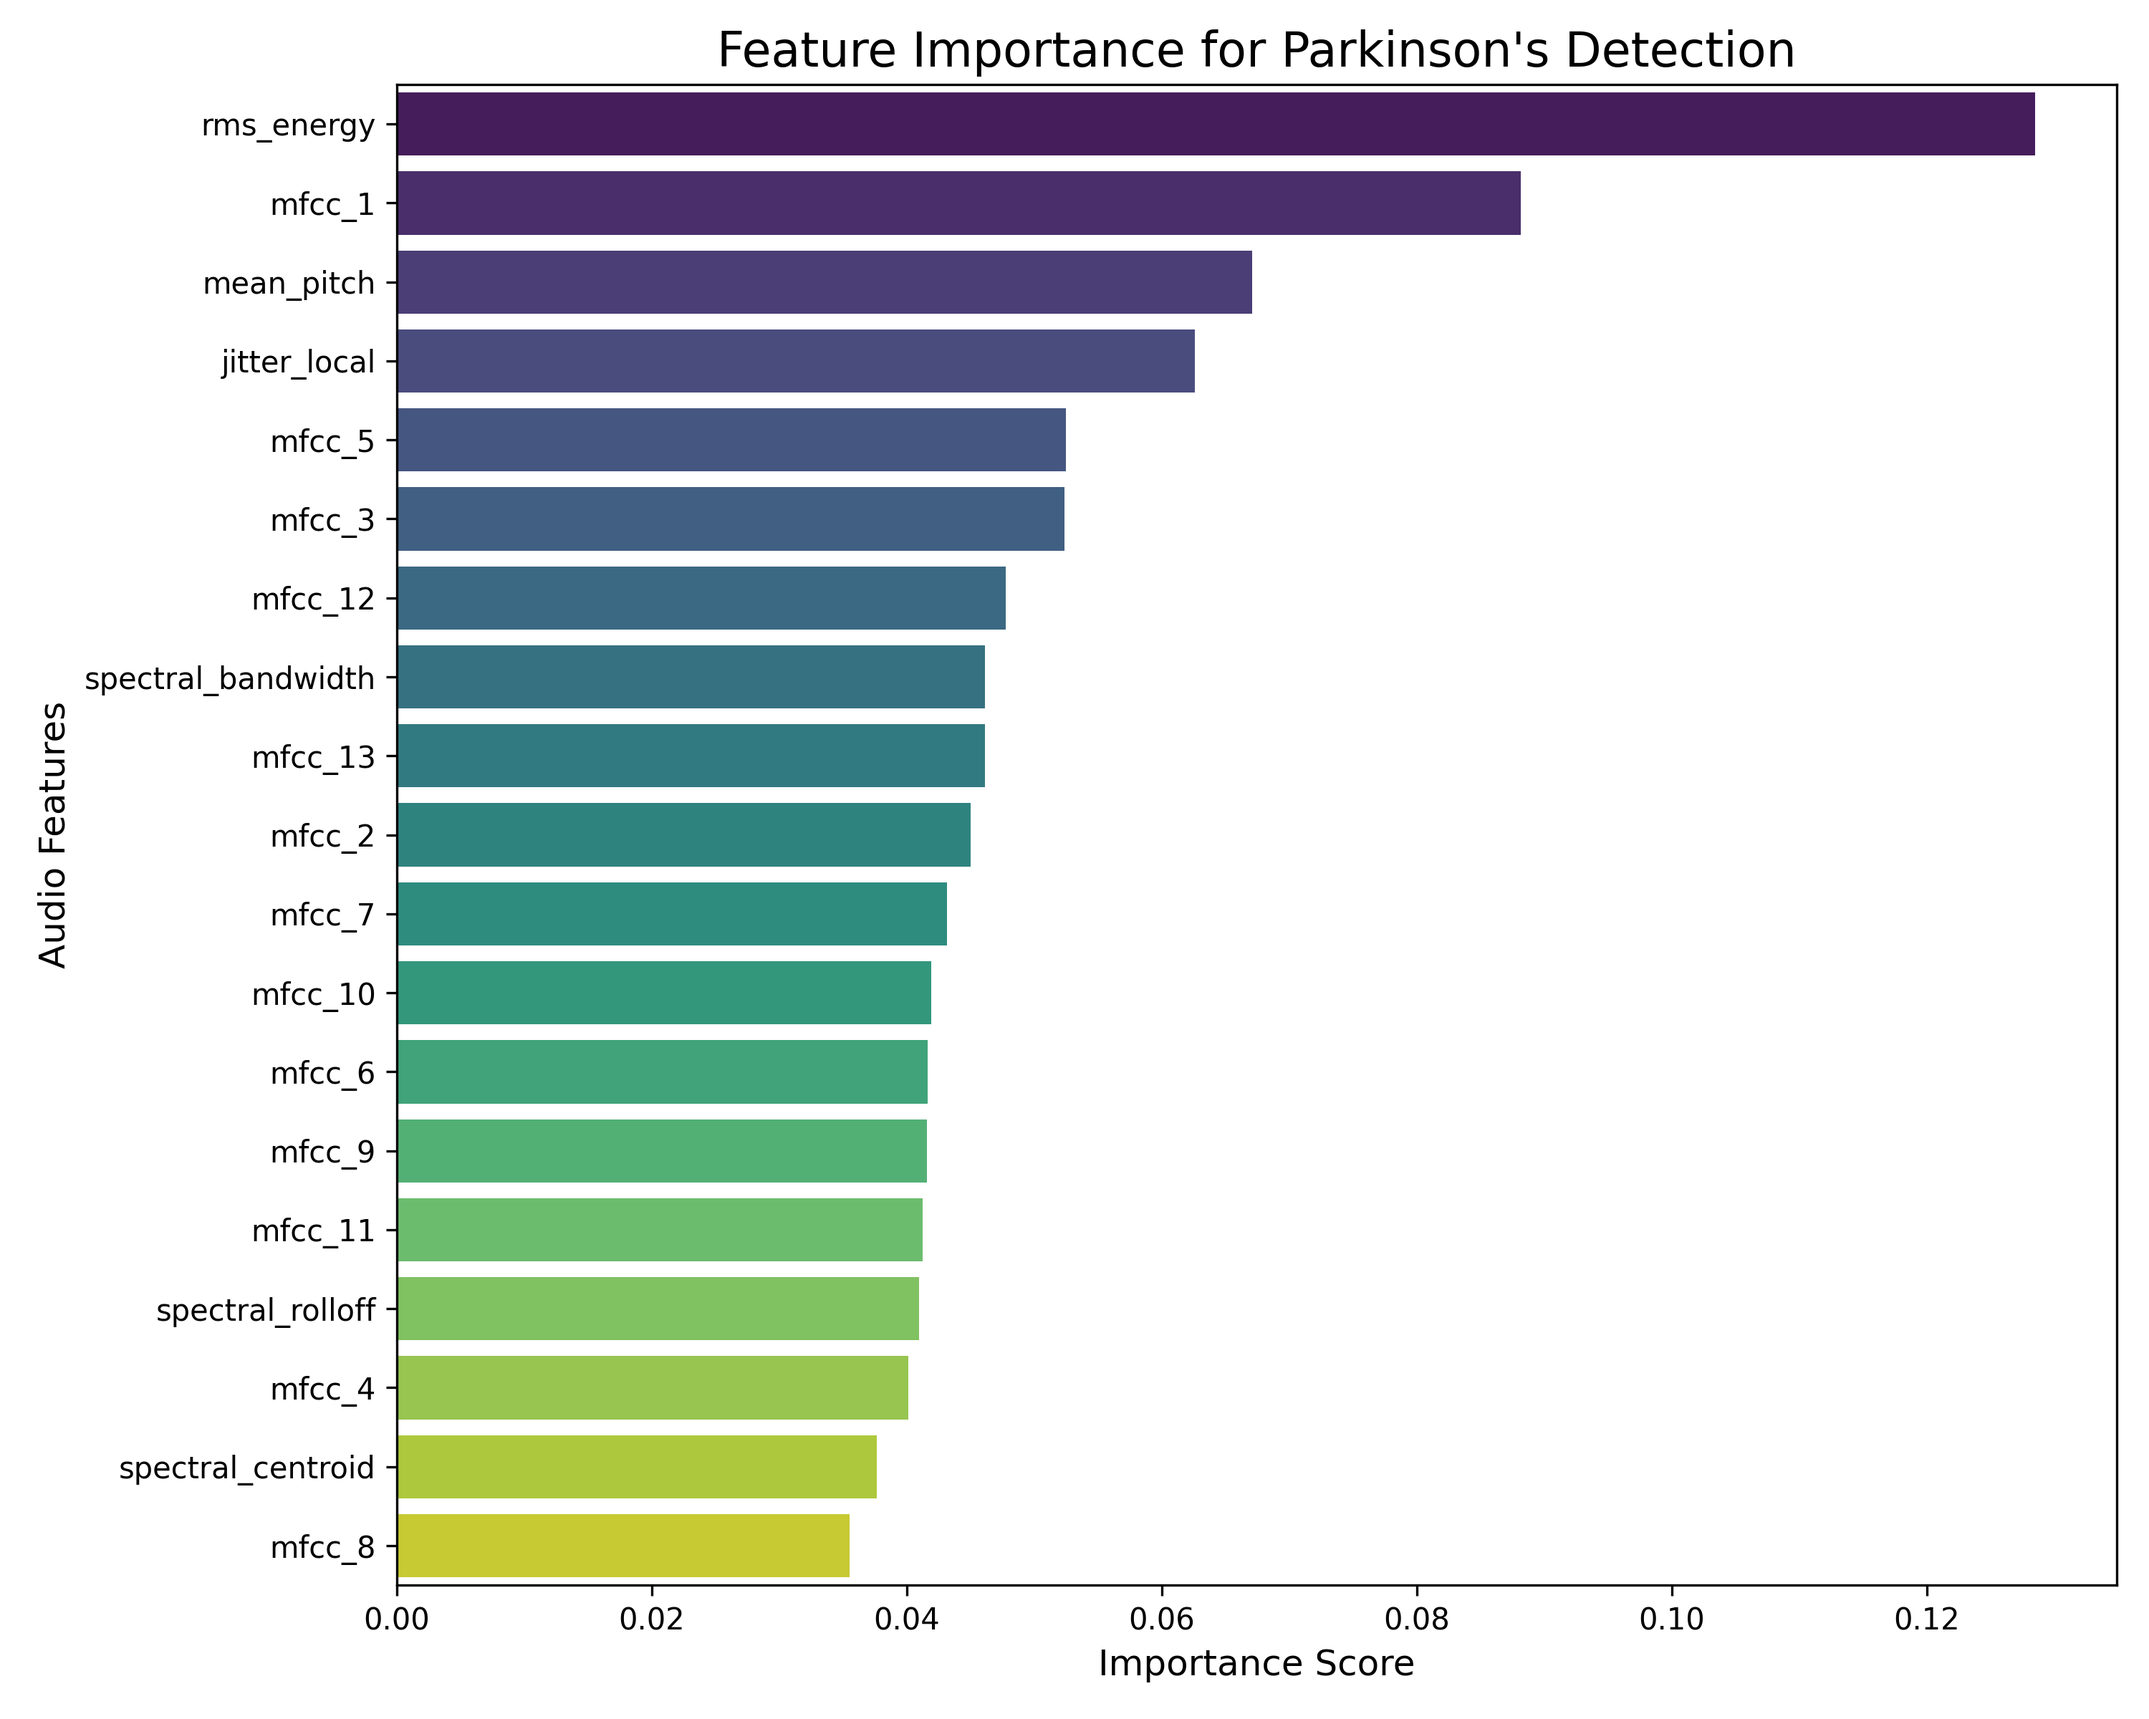
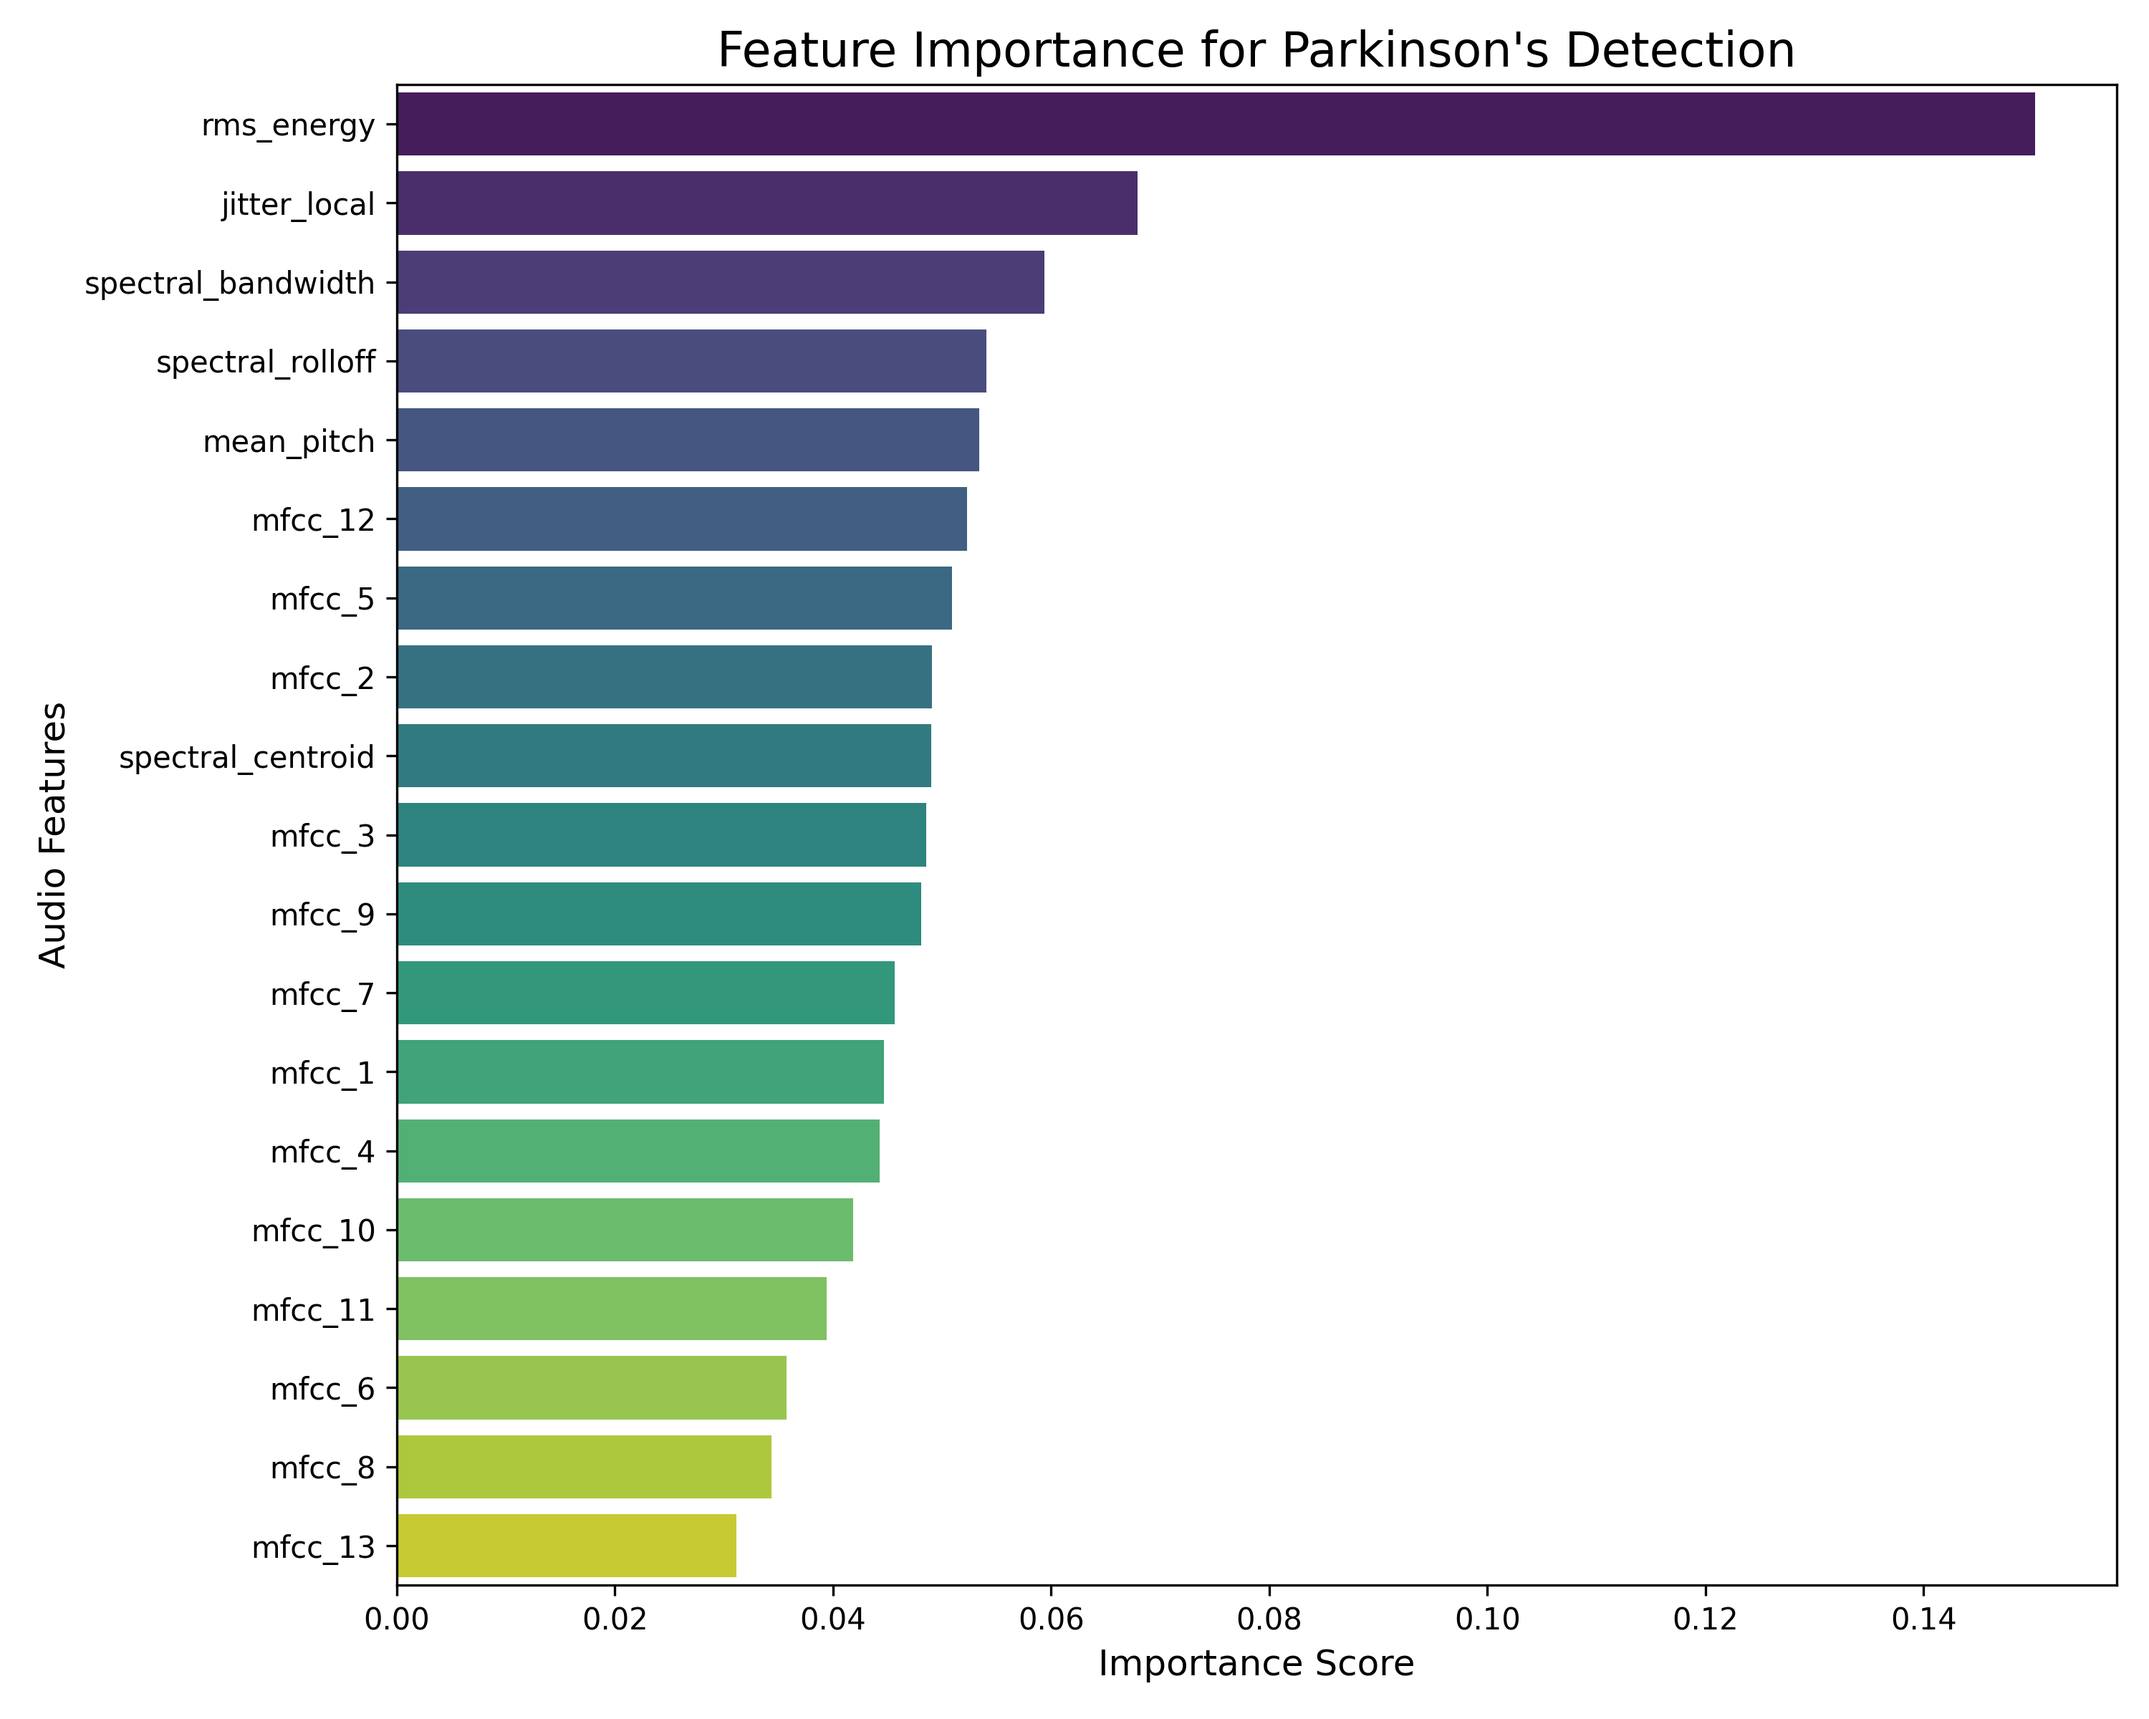
"Added XGB"

diff --git a/eda.py b/eda.py
@@ -8,17 +8,18 @@ warnings.filterwarnings('ignore')
 
 try:
     df = pd.read_csv('features_dataset.csv')
-    print("--- Successfully loaded features_dataset.csv ---")
 except FileNotFoundError:
     print("ERROR: 'features_dataset.csv' not found.")
     
 
 # Statistical Comparison
-key_features = [
-    'rms_energy', 'mfcc_1', 'mean_pitch', 'jitter_local',
-    'shimmer_local', 'spectral_bandwidth', 'hnr'
+features = [
+    'rms_energy', 'jitter_local', 'spectral_bandwidth', 'spectral_rolloff', 'mean_pitch',
+    'spectral_centroid', 'chroma_stft', 'spectral_contrast', 'mfcc_1', 'mfcc_2', 'mfcc_3', 
+    'mfcc_4', 'mfcc_5', 'mfcc_6', 'mfcc_7', 'mfcc_8', 
+    'mfcc_9', 'mfcc_10', 'mfcc_11', 'mfcc_12', 'mfcc_13', 
 ]
-existing_key_features = [f for f in key_features if f in df.columns and df[f].notna().any()]
+existing_key_features = [f for f in features if f in df.columns and df[f].notna().any()]
 
 print("Sample Counts by Diagnosis")
 print(df['label'].value_counts())

diff --git a/train_models.py b/train_models.py
@@ -6,6 +6,7 @@ from sklearn.svm import SVC
 from sklearn.linear_model import LogisticRegression
 from sklearn.neighbors import KNeighborsClassifier
 from sklearn.metrics import classification_report, confusion_matrix
+from xgboost import XGBClassifier
 import warnings
 
 warnings.filterwarnings('ignore')
@@ -50,7 +51,8 @@ models = {
     "SVM": SVC(kernel='rbf', random_state=42),
     "Gradient Boosting": GradientBoostingClassifier(random_state=42),
     "Logistic Regression": LogisticRegression(random_state=42),
-    "K-Nearest Neighbors": KNeighborsClassifier(n_neighbors=5)
+    "K-Nearest Neighbors": KNeighborsClassifier(n_neighbors=5),
+    "XGBoost": XGBClassifier(use_label_encoder=False, eval_metric='mlogloss')
 }
 
 for name, model in models.items():

diff --git a/visualize_features.py b/visualize_features.py
@@ -2,7 +2,7 @@ import pandas as pd
 import numpy as np
 from sklearn.model_selection import train_test_split
 from sklearn.preprocessing import StandardScaler, LabelEncoder
-from sklearn.ensemble import RandomForestClassifier
+from xgboost import XGBClassifier
 import matplotlib.pyplot as plt
 import seaborn as sns
 import warnings
@@ -26,7 +26,7 @@ scaler = StandardScaler()
 X_scaled = scaler.fit_transform(X)
 
 # Training Random Forest model to get feature importances
-model = RandomForestClassifier(n_estimators=100, random_state=42)
+model = XGBClassifier(n_estimators=100, random_state=42)
 model.fit(X_scaled, y)
 
 # Feature Importances
